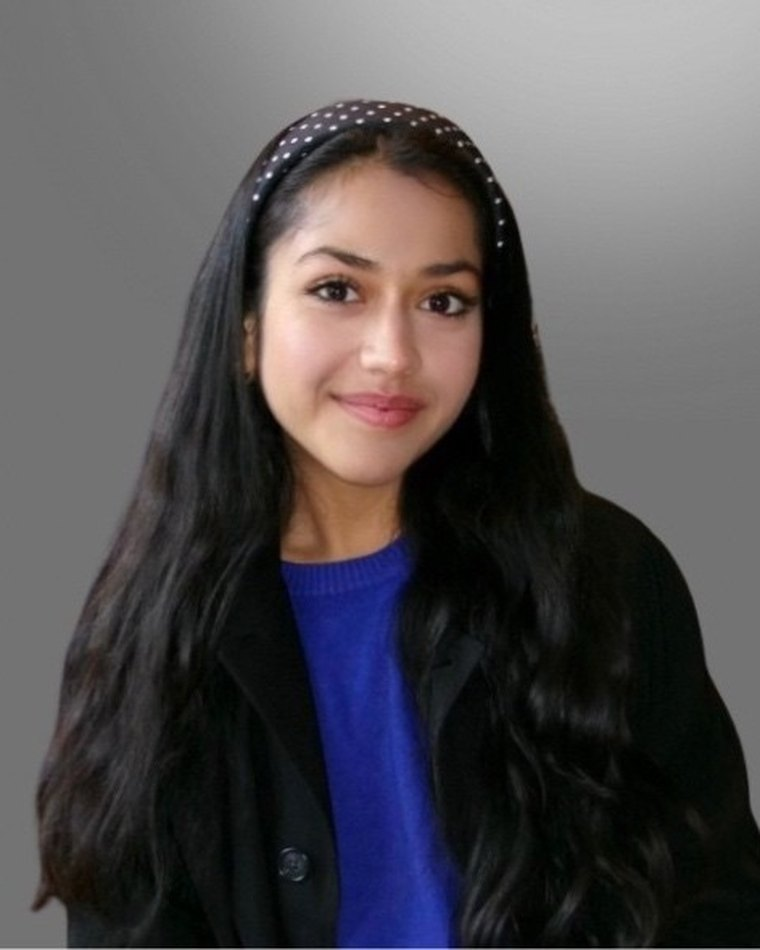
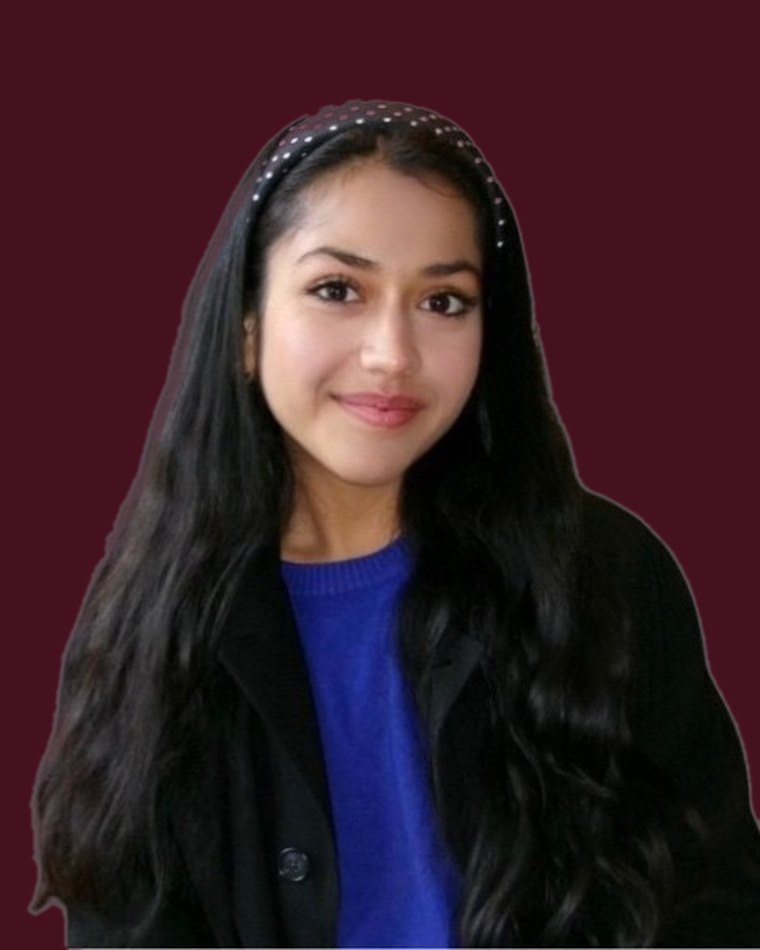
Add files via upload

diff --git a/src/projects/02-brand-systems.md b/src/projects/02-brand-systems.md
@@ -11,9 +11,17 @@ points:
   - text: "Created service-specific collateral across tax credits, bookkeeping, construction and advisory offerings."
   - text: "Maintained brand consistency across 35+ affiliated firms while adapting messaging for local markets."
   - text: "Translated complex accounting and tax topics into accessible, conversion-focused marketing materials."
-image: ""
-caption: "Screenshot"
-gallery: []
+image: "/images/work/02-brand-systems-hero.jpg"
+caption: "Cost Segregation Strategy whitepaper"
+gallery:
+  - image: "/images/work/02-brand-systems-g1.jpg"
+    caption: "Services one-pager"
+  - image: "/images/work/02-brand-systems-g2.jpg"
+    caption: "Cost segregation services flyer"
+  - image: "/images/work/02-brand-systems-g3.jpg"
+    caption: "45L tax credit flyer"
+  - image: "/images/work/02-brand-systems-g4.jpg"
+    caption: "Bookkeeping services flyer"
 ---
 ## Campaign and service collateral
 

diff --git a/src/projects/06-search-predictions.md b/src/projects/06-search-predictions.md
@@ -10,9 +10,15 @@ points:
   - text: "Researched and synthesised industry trends impacting discoverability."
   - text: "Contributed insights on AI's role in reshaping search behaviours and intent."
   - text: "Collaborated cross-functionally with organic and paid search leaders."
-image: ""
-caption: "Screenshot"
-gallery: []
+image: "/images/work/06-search-predictions-hero.jpg"
+caption: "2025 Predictions for Search Marketing"
+gallery:
+  - image: "/images/work/06-search-predictions-g1.jpg"
+    caption: "Three major search evolutions"
+  - image: "/images/work/06-search-predictions-g2.jpg"
+    caption: "Top predictions for 2025"
+  - image: "/images/work/06-search-predictions-g3.jpg"
+    caption: "Takeaways for discoverability"
 ---
 Contributed to VML's annual thought leadership deck outlining key predictions
 shaping the future of search marketing in 2025. Collaborated cross-functionally

diff --git a/src/projects/07-cannes-young-lions.md b/src/projects/07-cannes-young-lions.md
@@ -11,9 +11,15 @@ points:
   - text: "Built influencer partnerships (Keith Lee, Yara Shahidi, Kai Cenat) into the campaign architecture."
   - text: "Planned paid media flighting across social, streaming, DOOH and display."
   - text: "Designed a 3-phase awareness-to-longevity strategy projected to generate 40.9M impressions."
-image: ""
-caption: "Screenshot"
-gallery: []
+image: "/images/work/07-cannes-young-lions-hero.jpg"
+caption: "Cannes Young Lions 2025 entry"
+gallery:
+  - image: "/images/work/07-cannes-young-lions-g1.jpg"
+    caption: "Insight"
+  - image: "/images/work/07-cannes-young-lions-g2.jpg"
+    caption: "Idea"
+  - image: "/images/work/07-cannes-young-lions-g3.jpg"
+    caption: "Execution"
 ---
 In 2025 I competed in the **Cannes Young Lions** competition, developing a fully
 integrated campaign for WhyHunger in partnership with Whole Foods Market.

diff --git a/src/projects/13-corky-wine.md b/src/projects/13-corky-wine.md
@@ -11,9 +11,15 @@ points:
   - text: "Developed the brand positioning statement and value proposition."
   - text: "Designed a subscription pricing model, distribution plan and integrated promotional strategy."
   - text: "Built financial projections and revenue modelling."
-image: ""
-caption: "Screenshot"
-gallery: []
+image: "/images/work/13-corky-wine-hero.jpg"
+caption: "Corky Wine brand strategy"
+gallery:
+  - image: "/images/work/13-corky-wine-g1.jpg"
+    caption: "Product and brand language"
+  - image: "/images/work/13-corky-wine-g2.jpg"
+    caption: "Positioning map"
+  - image: "/images/work/13-corky-wine-g3.jpg"
+    caption: "Social and lifestyle direction"
 ---
 Developed a comprehensive brand strategy for a millennial-focused functional
 wine concept positioned within the adaptogen and wellness beverage space.

diff --git a/src/projects/14-slate-research.md b/src/projects/14-slate-research.md
@@ -10,9 +10,15 @@ points:
   - text: "Conducted frequency analysis and cross-variable evaluation."
   - text: "Identified primary purchase drivers and brand perception gaps."
   - text: "Developed product positioning and messaging recommendations."
-image: ""
-caption: "Screenshot"
-gallery: []
+image: "/images/work/14-slate-research-hero.jpg"
+caption: "Slate brand strategy"
+gallery:
+  - image: "/images/work/14-slate-research-g1.jpg"
+    caption: "Research"
+  - image: "/images/work/14-slate-research-g2.jpg"
+    caption: "Consumer insight"
+  - image: "/images/work/14-slate-research-g3.jpg"
+    caption: "Recommendation"
 ---
 Led a consumer research initiative evaluating purchase drivers and perception
 gaps within the RTD beverage category, focusing on positioning opportunities for

diff --git a/src/projects/12-rtd-coffee.md b/src/projects/12-rtd-coffee.md
@@ -10,9 +10,13 @@ points:
   - text: "Evaluated brand share performance and market concentration."
   - text: "Assessed buying occasions and consumer behaviour drivers."
   - text: "Synthesised Mintel, Passport and IBISWorld data into actionable insights."
-image: ""
-caption: "Screenshot"
-gallery: []
+image: "/images/work/12-rtd-coffee-hero.jpg"
+caption: "Analysis of the RTD coffee industry"
+gallery:
+  - image: "/images/work/12-rtd-coffee-g1.jpg"
+    caption: "Market analysis"
+  - image: "/images/work/12-rtd-coffee-g2.jpg"
+    caption: "Findings"
 ---
 Conducted a comprehensive industry analysis of the Ready-to-Drink (RTD) coffee
 market using syndicated research sources to evaluate consumption trends, brand

diff --git a/src/projects/01-integrated-marketing.md b/src/projects/01-integrated-marketing.md
@@ -12,9 +12,11 @@ points:
   - text: "Run the WordPress content workflow so pages publish faster and don't need three rounds of cleanup."
   - text: "Build marketing automation and nurture flows that streamline lead follow-up and the handoff to sales."
   - text: "Create and standardise creative assets: toolkits, templates, logos and visuals, so nobody rebuilds a flyer from scratch."
-image: ""
-caption: "Screenshot"
-gallery: []
+image: "/images/work/01-integrated-marketing-hero.jpg"
+caption: "Rulien & Associates bookkeeping mailer, front"
+gallery:
+  - image: "/images/work/01-integrated-marketing-g1.jpg"
+    caption: "Mailer reverse"
 ---
 ## The situation
 

diff --git a/src/projects/11-editorial-advertising.md b/src/projects/11-editorial-advertising.md
@@ -11,8 +11,8 @@ points:
   - text: "Created storyboards and branding templates for client companies."
   - text: "Developed creative strategies to increase brand awareness and reach."
   - text: "Wrote and edited articles for the Her Campus UIC chapter across lifestyle, beauty, fashion, travel and culture."
-image: ""
-caption: "Screenshot"
+image: "/images/work/11-editorial-advertising-hero.jpg"
+caption: "JNR Advisory full-page advertisement"
 gallery: []
 ---
 ## Five94' Marketing Solutions
